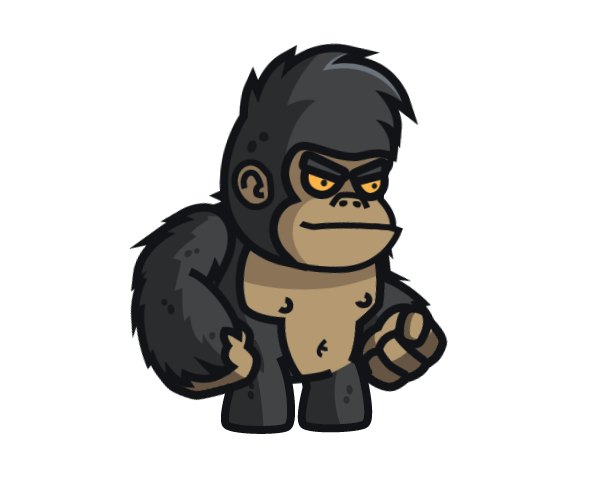
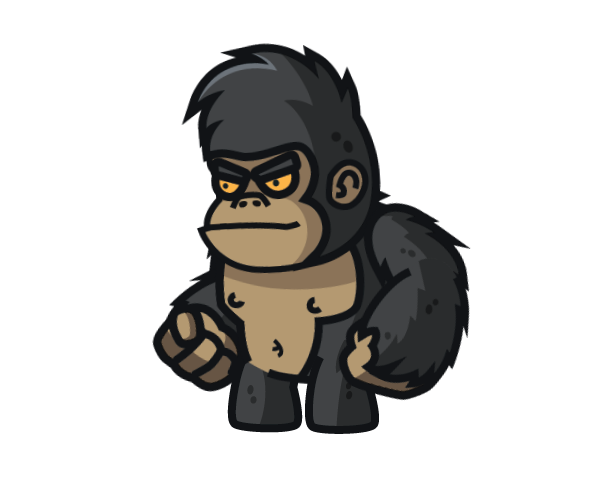
Adding throwing animation for enemy

Changed region(s): [[0.21, 0.0625, 0.78, 0.9062]]

diff --git a/lib/animations/game_painter.dart b/lib/animations/game_painter.dart
@@ -9,9 +9,9 @@ class GamePainter extends CustomPainter {
   Paint _paint2;
   Paint _paint3;
   UI.Image ballImage;
-  UI.Image enemyImage;
   int enemyIndex;
   List<UI.Image> enemyIdleImages;
+  List<UI.Image> enemyInputImages;
   int idleIndex;
   List<UI.Image> charIdleImages;
   List<UI.Image> charInputImages;
@@ -29,7 +29,7 @@ class GamePainter extends CustomPainter {
   bool canInput;
   double obstacleSize = 20.0;
   
-  GamePainter(BuildContext context, double newMachinePos, double newObstaclePos, double newObstacleDeathPos,double newInputPos, bool newCanInput, bool newObstacleIsHit, OBSTACLE_STATUS newObstacleStatus, UI.Image newBallImage, UI.Image newEnemyImage, List<UI.Image> newEnemyIdleImages, List<UI.Image> newCharIdleImages, List<UI.Image> newCharInputImages){
+  GamePainter(BuildContext context, double newMachinePos, double newObstaclePos, double newObstacleDeathPos,double newInputPos, bool newCanInput, bool newObstacleIsHit, OBSTACLE_STATUS newObstacleStatus, UI.Image newBallImage, List<UI.Image> newEnemyIdleImages, List<UI.Image> newEnemyInputImages, List<UI.Image> newCharIdleImages, List<UI.Image> newCharInputImages){
     obstacleStatus = newObstacleStatus;
     machinePos = newMachinePos;
     obstaclePos = newObstaclePos;
@@ -44,10 +44,10 @@ class GamePainter extends CustomPainter {
     _paint3 = Paint()
       ..color = Colors.green;
     ballImage = newBallImage;
-    enemyImage = newEnemyImage;
 
     enemyIndex = 0;
     enemyIdleImages = newEnemyIdleImages;
+    enemyInputImages = newEnemyInputImages;
     idleIndex = 0;
     charIdleImages = newCharIdleImages;
     charInputImages = newCharInputImages;
@@ -60,30 +60,34 @@ class GamePainter extends CustomPainter {
     enemyIndex = (enemyIdleImages.length*(DateTime.now().millisecond/1000)).floor();
     
     int inputIndex = (inputPos*charInputImages.length).floor();
-    print(inputIndex);
 
-    canvas.drawImage(enemyImage, Offset(size.width*0.8, size.height-50), _paint2);
     // canvas.drawImage(canInput ? charIdleImages[idleIndex] : charInputImages[inputIndex], Offset(size.width*0.2-100.0, size.height-100), _paint2);
     // canvas.drawRect(Rect.fromLTRB(size.width*0.8, size.height,size.width*0.8+charWidth, size.height-charHeight), _paint2);
-    canvas.drawImageRect(enemyIdleImages[enemyIndex], Rect.fromLTRB(0.0,0.0,enemyIdleImages[0].width.toDouble(), enemyIdleImages[0].height.toDouble()), Rect.fromLTRB(size.width*0.8, size.height-charHeight,size.width*0.8+charWidth, size.height), _paint2);
 
+    if(obstacleStatus==OBSTACLE_STATUS.ALIVE){
+      int throwIndex = (obstaclePos* enemyInputImages.length*0.99).floor();
+
+      canvas.drawImageRect(enemyInputImages[throwIndex], Rect.fromLTRB(0.0,0.0,enemyInputImages[0].width.toDouble(), enemyInputImages[0].height.toDouble()), Rect.fromLTRB(size.width*0.8, size.height-charHeight,size.width*0.8+charWidth, size.height), _paint2);
+    }else{
+      canvas.drawImageRect(enemyIdleImages[enemyIndex], Rect.fromLTRB(0.0,0.0,enemyIdleImages[0].width.toDouble(), enemyIdleImages[0].height.toDouble()), Rect.fromLTRB(size.width*0.8, size.height-charHeight,size.width*0.8+charWidth, size.height), _paint2);
+    }
     canvas.drawImageRect(canInput ? charIdleImages[idleIndex] : charInputImages[inputIndex], Rect.fromLTRB(0.0,0.0,canInput ? charIdleImages[0].width.toDouble() : charInputImages[0].width.toDouble(), canInput ? charIdleImages[0].height.toDouble() : charInputImages[0].height.toDouble()), Rect.fromLTRB(size.width*0.2-charWidth, size.height-charHeight,size.width*0.2, size.height), _paint2);
 
 
     if(obstacleStatus == OBSTACLE_STATUS.ALIVE){
       double currentPos = ((size.width*0.6) * obstaclePos ) + size.width*0.2;
-      canvas.drawImage(ballImage, Offset(currentPos, size.height-(charHeight/2)), _paint2);
+      canvas.drawImageRect(ballImage, Rect.fromLTRB(0.0, 0.0, ballImage.width.toDouble(), ballImage.height.toDouble()), Rect.fromLTWH(currentPos, size.height-(charHeight*2/3),   obstacleSize, obstacleSize), _paint2);
 
     }
     if(obstacleStatus == OBSTACLE_STATUS.DEATH){
       if(obstacleIsHit){
         double currentDeathXpos = size.width*0.2 + (size.width * (1-obstacleDeathPos));
-        double currentDeathYpos = (size.height-(charHeight/2)) -  (size.height * (1-obstacleDeathPos)); 
-        canvas.drawImage(ballImage, Offset(currentDeathXpos, currentDeathYpos), _paint2);
+        double currentDeathYpos = (size.height-(charHeight*2/3)) -  (size.height * (1-obstacleDeathPos)); 
+        canvas.drawImageRect(ballImage, Rect.fromLTRB(0.0, 0.0, ballImage.width.toDouble(), ballImage.height.toDouble()), Rect.fromLTWH(currentDeathXpos, currentDeathYpos, obstacleSize, obstacleSize), _paint2);
 
       }else{
         double currentDeathPos = ((size.width*0.35+obstacleSize) * obstacleDeathPos) - obstacleSize - size.width*0.15;
-        canvas.drawImage(ballImage, Offset(currentDeathPos, size.height-(charHeight/2)), _paint2);
+        canvas.drawImageRect(ballImage, Rect.fromLTRB(0.0, 0.0, ballImage.width.toDouble(), ballImage.height.toDouble()), Rect.fromLTWH(currentDeathPos, size.height-(charHeight*2/3), obstacleSize, obstacleSize), _paint2);
 
       }
     }

diff --git a/lib/pages/game_page.dart b/lib/pages/game_page.dart
@@ -57,7 +57,6 @@ class _GamePageState extends State<GamePage> with TickerProviderStateMixin{
 
   bool loading;
   UI.Image ballImage;
-  UI.Image enemyImage;
   List<UI.Image> enemyIdleImages;
   List<UI.Image> enemyInputImages;
   List<UI.Image> charIdleImages;
@@ -169,12 +168,17 @@ class _GamePageState extends State<GamePage> with TickerProviderStateMixin{
   }
 
   void loadImages() async{
-    ballImage =  await loadImage("assets/ball/baseball.png");
-    enemyImage = await loadImage("assets/enemy_animations/tank.png");
+    ballImage =  await loadImage("assets/ball/ball_01/ball_01.png");
+
     for(int i=18; i > 0; i--){
       String num = i<10 ? '0$i':'$i';
       UI.Image temp =  await loadImage("assets/enemy_animations/enemy_01/enemy_idle/idle_$num.png");
       enemyIdleImages.add(temp);
+    }
+    for(int i=11; i >= 3; i--){
+      String num = i<10 ? '0$i':'$i';
+      UI.Image temp =  await loadImage("assets/enemy_animations/enemy_01/enemy_throw/Throwing_0$num.png");
+      enemyInputImages.add(temp);
     }
 
     // for(int i=18; i > 0; i--){
@@ -297,8 +301,8 @@ class _GamePageState extends State<GamePage> with TickerProviderStateMixin{
                       obstacleIsHit, 
                       obstacle_status, 
                       ballImage, 
-                      enemyImage,
                       enemyIdleImages, 
+                      enemyInputImages, 
                       charIdleImages, 
                       charInputImages,
                     ),
